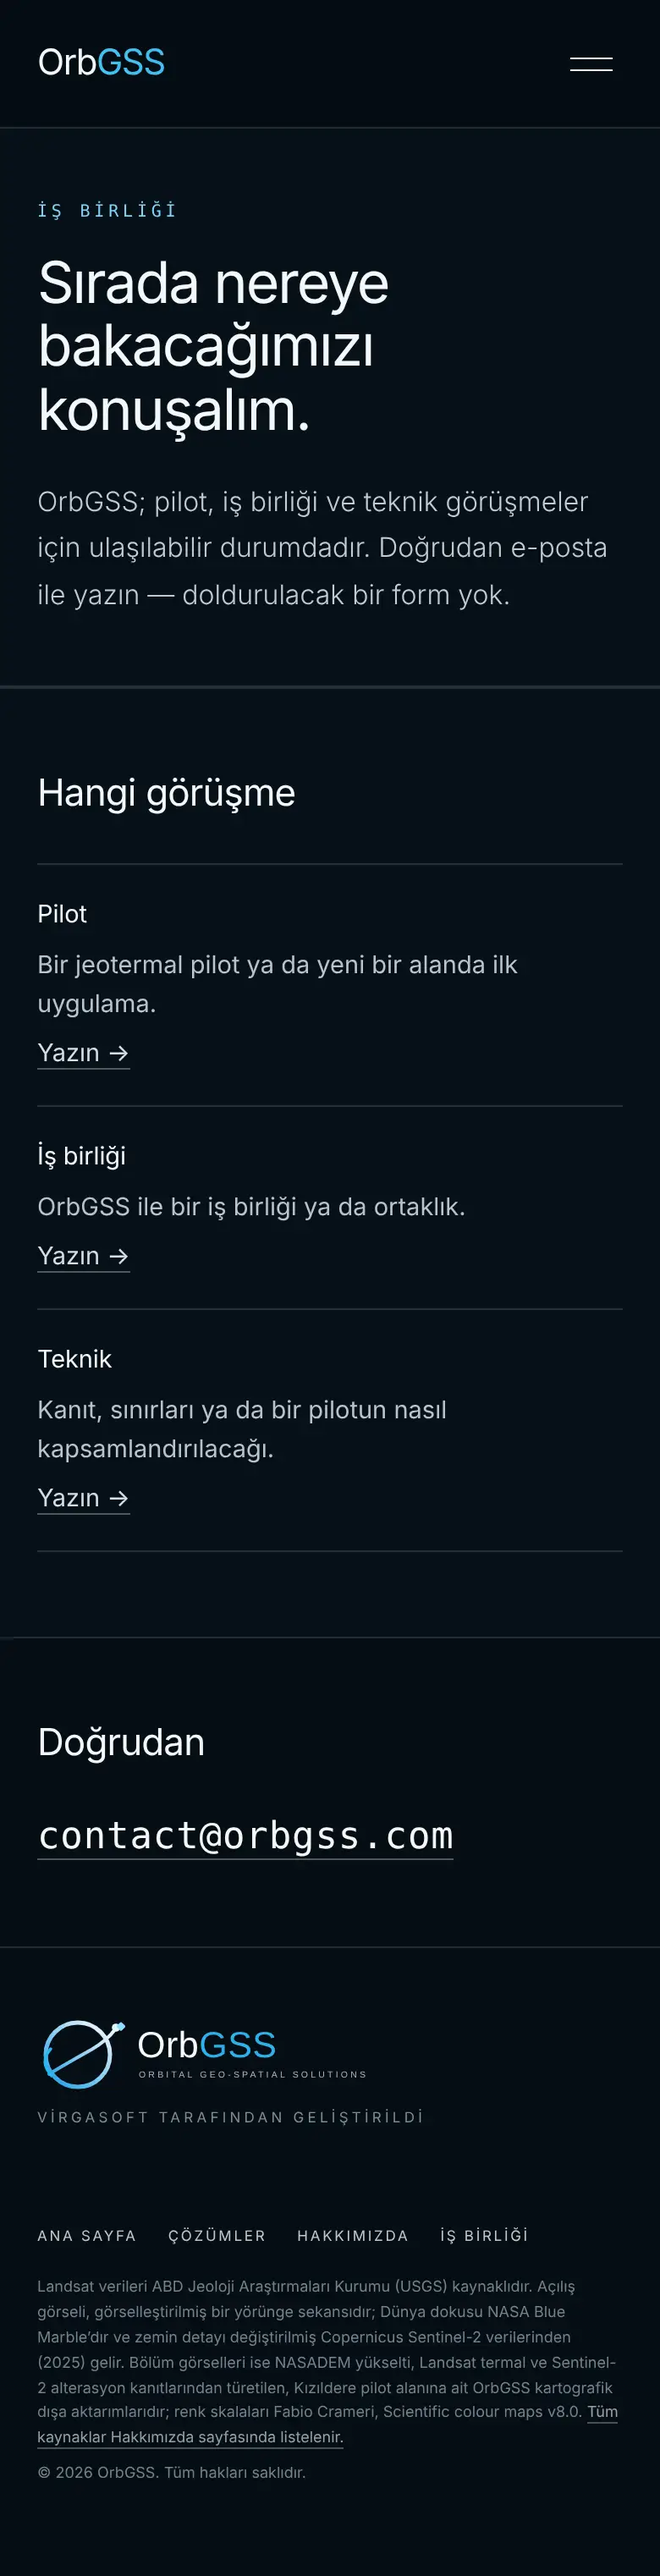
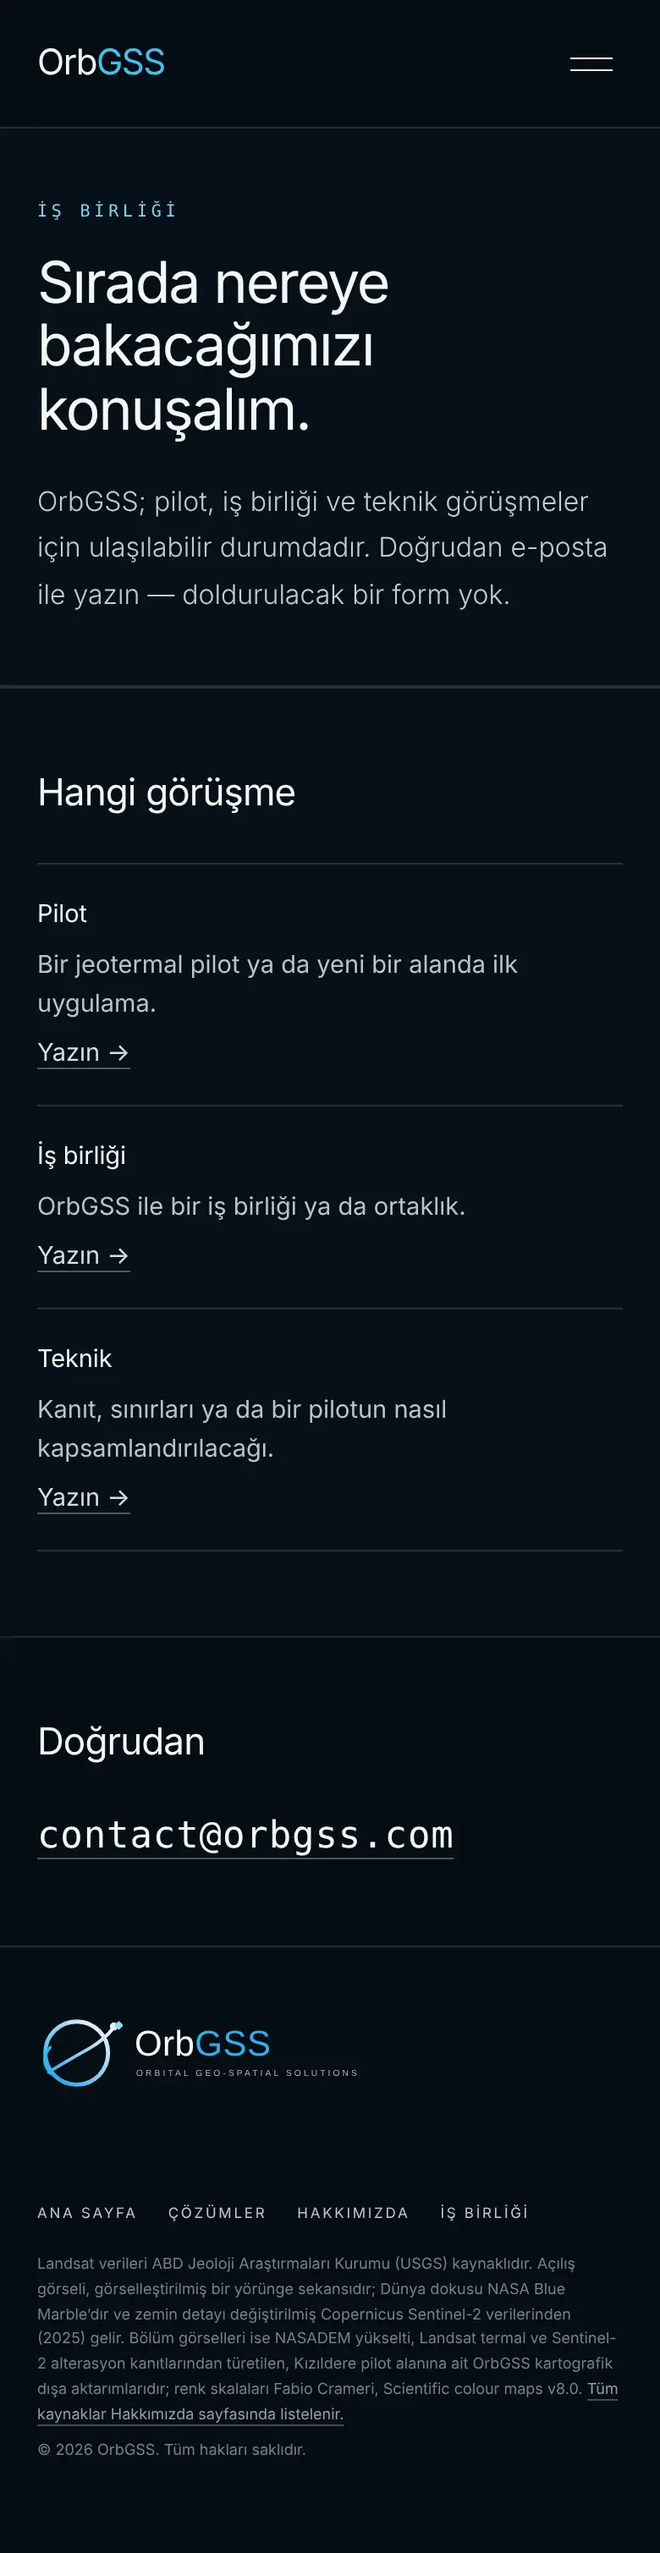
feat(mer-241): remove every VirgaSoft mention from the public site
CTO decision (2026-10-17): the brand is OrbGSS only; the site never names
VirgaSoft, and the planned legal name is not published either.

- Footer mark on every page and 404.html, the About page's parent line, the
  parent-company clause in the About introduction and the About meta / og
  descriptions are removed in English and Turkish (dictionary key
  footer.builtBy and the related CSS go too). /tr/ is regenerated.
- scripts/validate_site.py scans every deployed file for the former parent
  brand in any spelling (case, Turkish dotted I, spaces, hyphens, entities,
  raw bytes / UTF-16 metadata). negative_tests_mer241.py gains 7 cases (51);
  two older cases that used the removed element or sentence are re-anchored.
- CLAUDE.md, the M6 / vNext / product authorities (new M6 decision D6),
  STATUS, CHANGELOG and tasks/MER-241_EVIDENCE.md (section 8) record it.
  Historical internal records and the virga-soft Vercel team identifier in
  hostnames are not site content and are untouched.

Claude-Session: https://claude.ai/code/session_01CRCZCrLH5bTTxXSvzym49z

diff --git a/script.js b/script.js
@@ -94,7 +94,7 @@ const I18N = {
     'app.marine.title': 'Marine',
     'app.marine.status': 'Expansion direction',
     'company.title': 'OrbGSS — Orbital Geo-Spatial Solutions',
-    'company.copy': 'OrbGSS is a geospatial-intelligence platform built by VirgaSoft. It exists to make exploration and land decisions evidence-based, traceable and easier to prioritize.',
+    'company.copy': 'OrbGSS is a geospatial-intelligence platform. It exists to make exploration and land decisions evidence-based, traceable and easier to prioritize.',
     'contact.cta': 'Partner With Us',
     'scene.yellowstone.place': 'Yellowstone National Park, USA',
     'scene.yellowstone.coords': '44.4604° N, 110.8282° W',
@@ -105,7 +105,6 @@ const I18N = {
     'alt.yellowstone': 'Satellite view of the geothermal landscape around Yellowstone National Park',
     'alt.chuquicamata': 'Satellite view of the Chuquicamata mining district in northern Chile',
     'alt.ili': 'Satellite view of the Ili River Delta and Lake Balkhash in Kazakhstan',
-    'footer.builtBy': 'Built by VirgaSoft',
     'footer.attribution': 'Landsat data courtesy of the U.S. Geological Survey. The hero is a rendered orbital sequence whose Earth texture is NASA Blue Marble with ground detail from modified Copernicus Sentinel-2 data (2025). The story panels are OrbGSS cartographic exports of the Kızıldere pilot area, derived from NASADEM elevation, Landsat thermal and Sentinel-2 alteration evidence, with Scientific colour maps v8.0 by Fabio Crameri.',
     'footer.copyright': '© 2026 OrbGSS. All rights reserved.',
 
@@ -261,8 +260,8 @@ const I18N = {
     'geothermalPage.gap.copy': 'No public-safe fault or lithology layer is authorized for this pilot. The gap is shown, not filled, and it does not change the priority: structure and geology are optional support and score-invariant.',
     'geothermalPage.next': 'Discuss a pilot',
     'aboutPage.meta.title': 'About — OrbGSS',
-    'aboutPage.meta.description': 'OrbGSS — Orbital Geo-Spatial Solutions, built by VirgaSoft: the principles it publishes by and every data source it uses.',
-    'aboutPage.meta.ogDescription': 'OrbGSS — Orbital Geo-Spatial Solutions, built by VirgaSoft.',
+    'aboutPage.meta.description': 'OrbGSS — Orbital Geo-Spatial Solutions: the principles it publishes by and every data source it uses.',
+    'aboutPage.meta.ogDescription': 'OrbGSS — Orbital Geo-Spatial Solutions: the principles it publishes by and every data source it uses.',
     'aboutPage.kicker': 'About',
     'aboutPage.principles.title': 'How OrbGSS publishes',
     'aboutPage.col.principle': 'Principle',
@@ -395,7 +394,7 @@ const I18N = {
     'app.marine.title': 'Denizel',
     'app.marine.status': 'Genişleme yönü',
     'company.title': 'OrbGSS — Orbital Geo-Spatial Solutions',
-    'company.copy': 'OrbGSS, VirgaSoft tarafından geliştirilen bir coğrafi zekâ platformudur. Arama ve arazi kararlarını kanıta dayalı, izlenebilir ve önceliklendirilmesi kolay hâle getirmek için vardır.',
+    'company.copy': 'OrbGSS bir coğrafi zekâ platformudur. Arama ve arazi kararlarını kanıta dayalı, izlenebilir ve önceliklendirilmesi kolay hâle getirmek için vardır.',
     'contact.cta': 'İş Birliği Kurun',
     'scene.yellowstone.place': 'Yellowstone Ulusal Parkı, ABD',
     'scene.yellowstone.coords': '44.4604° K, 110.8282° B',
@@ -407,7 +406,6 @@ const I18N = {
     'alt.yellowstone': 'Yellowstone Ulusal Parkı çevresindeki jeotermal arazinin uydu görüntüsü',
     'alt.chuquicamata': 'Kuzey Şili Chuquicamata madencilik bölgesinin uydu görüntüsü',
     'alt.ili': 'Kazakistan İli Nehri Deltası ve Balkaş Gölü uydu görüntüsü',
-    'footer.builtBy': 'VirgaSoft tarafından geliştirildi',
     'footer.attribution': 'Landsat verileri ABD Jeoloji Araştırmaları Kurumu (USGS) kaynaklıdır. Açılış görseli, görselleştirilmiş bir yörünge sekansıdır; Dünya dokusu NASA Blue Marble’dır ve zemin detayı değiştirilmiş Copernicus Sentinel-2 verilerinden (2025) gelir. Bölüm görselleri ise NASADEM yükselti, Landsat termal ve Sentinel-2 alterasyon kanıtlarından türetilen, Kızıldere pilot alanına ait OrbGSS kartografik dışa aktarımlarıdır; renk skalaları Fabio Crameri, Scientific colour maps v8.0.',
     'footer.copyright': '© 2026 OrbGSS. Tüm hakları saklıdır.',
 
@@ -563,8 +561,8 @@ const I18N = {
     'geothermalPage.gap.copy': 'Bu pilot için kamuya açık kullanıma uygun bir fay veya litoloji katmanı yetkilendirilmemiştir. Boşluk doldurulmaz, gösterilir ve önceliği değiştirmez: yapı ve jeoloji isteğe bağlı destektir, skoru etkilemez.',
     'geothermalPage.next': 'Pilot görüşün',
     'aboutPage.meta.title': 'Hakkımızda — OrbGSS',
-    'aboutPage.meta.description': 'OrbGSS — Orbital Geo-Spatial Solutions, VirgaSoft tarafından geliştirildi: yayın ilkeleri ve kullandığı tüm veri kaynakları.',
-    'aboutPage.meta.ogDescription': 'OrbGSS — Orbital Geo-Spatial Solutions, VirgaSoft tarafından geliştirildi.',
+    'aboutPage.meta.description': 'OrbGSS — Orbital Geo-Spatial Solutions: yayın ilkeleri ve kullandığı tüm veri kaynakları.',
+    'aboutPage.meta.ogDescription': 'OrbGSS — Orbital Geo-Spatial Solutions: yayın ilkeleri ve kullandığı tüm veri kaynakları.',
     'aboutPage.kicker': 'Hakkımızda',
     'aboutPage.principles.title': 'OrbGSS nasıl yayımlar',
     'aboutPage.col.principle': 'İlke',

diff --git a/tr/hakkimizda/index.html b/tr/hakkimizda/index.html
@@ -5,7 +5,7 @@
   <meta charset="utf-8" />
   <meta name="viewport" content="width=device-width,initial-scale=1,viewport-fit=cover" />
   <title data-i18n="aboutPage.meta.title">Hakkımızda — OrbGSS</title>
-  <meta name="description" data-i18n-content="aboutPage.meta.description" content="OrbGSS — Orbital Geo-Spatial Solutions, VirgaSoft tarafından geliştirildi: yayın ilkeleri ve kullandığı tüm veri kaynakları." />
+  <meta name="description" data-i18n-content="aboutPage.meta.description" content="OrbGSS — Orbital Geo-Spatial Solutions: yayın ilkeleri ve kullandığı tüm veri kaynakları." />
   <meta name="theme-color" content="#061018" />
   <meta name="color-scheme" content="dark" />
   <meta name="robots" content="index,follow,max-image-preview:large" />
@@ -16,7 +16,7 @@
 
   <meta property="og:site_name" content="OrbGSS" />
   <meta property="og:title" data-i18n-content="aboutPage.meta.title" content="Hakkımızda — OrbGSS" />
-  <meta property="og:description" data-i18n-content="aboutPage.meta.ogDescription" content="OrbGSS — Orbital Geo-Spatial Solutions, VirgaSoft tarafından geliştirildi." />
+  <meta property="og:description" data-i18n-content="aboutPage.meta.ogDescription" content="OrbGSS — Orbital Geo-Spatial Solutions: yayın ilkeleri ve kullandığı tüm veri kaynakları." />
   <meta property="og:type" content="website" />
   <meta property="og:url" content="https://orbgss.com/tr/hakkimizda/" />
   <meta property="og:locale" content="tr_TR" />
@@ -71,8 +71,7 @@
       <div class="page-hero-inner">
         <p class="kicker mono" data-i18n="aboutPage.kicker">Hakkımızda</p>
         <h1 id="about-title" data-i18n="company.title">OrbGSS — Orbital Geo-Spatial Solutions</h1>
-        <p class="page-hero-copy" data-i18n="company.copy">OrbGSS, VirgaSoft tarafından geliştirilen bir coğrafi zekâ platformudur. Arama ve arazi kararlarını kanıta dayalı, izlenebilir ve önceliklendirilmesi kolay hâle getirmek için vardır.</p>
-        <p class="company-parent mono" data-i18n="footer.builtBy">VirgaSoft tarafından geliştirildi</p>
+        <p class="page-hero-copy" data-i18n="company.copy">OrbGSS bir coğrafi zekâ platformudur. Arama ve arazi kararlarını kanıta dayalı, izlenebilir ve önceliklendirilmesi kolay hâle getirmek için vardır.</p>
       </div>
     </section>
 
@@ -127,7 +126,6 @@
   <footer class="site-footer">
     <div class="footer-brand">
       <img src="/assets/logo.svg" alt="OrbGSS — Orbital Geo-Spatial Solutions" width="420" height="120" />
-      <span data-i18n="footer.builtBy">VirgaSoft tarafından geliştirildi</span>
     </div>
     <div class="footer-right">
       <nav aria-label="Alt bilgi gezinmesi" data-i18n-aria-label="nav.footer">

diff --git a/about/index.html b/about/index.html
@@ -4,7 +4,7 @@
   <meta charset="utf-8" />
   <meta name="viewport" content="width=device-width,initial-scale=1,viewport-fit=cover" />
   <title data-i18n="aboutPage.meta.title">About — OrbGSS</title>
-  <meta name="description" data-i18n-content="aboutPage.meta.description" content="OrbGSS — Orbital Geo-Spatial Solutions, built by VirgaSoft: the principles it publishes by and every data source it uses." />
+  <meta name="description" data-i18n-content="aboutPage.meta.description" content="OrbGSS — Orbital Geo-Spatial Solutions: the principles it publishes by and every data source it uses." />
   <meta name="theme-color" content="#061018" />
   <meta name="color-scheme" content="dark" />
   <meta name="robots" content="index,follow,max-image-preview:large" />
@@ -15,7 +15,7 @@
 
   <meta property="og:site_name" content="OrbGSS" />
   <meta property="og:title" data-i18n-content="aboutPage.meta.title" content="About — OrbGSS" />
-  <meta property="og:description" data-i18n-content="aboutPage.meta.ogDescription" content="OrbGSS — Orbital Geo-Spatial Solutions, built by VirgaSoft." />
+  <meta property="og:description" data-i18n-content="aboutPage.meta.ogDescription" content="OrbGSS — Orbital Geo-Spatial Solutions: the principles it publishes by and every data source it uses." />
   <meta property="og:type" content="website" />
   <meta property="og:url" content="https://orbgss.com/about/" />
   <meta property="og:locale" content="en_US" />
@@ -70,8 +70,7 @@
       <div class="page-hero-inner">
         <p class="kicker mono" data-i18n="aboutPage.kicker">About</p>
         <h1 id="about-title" data-i18n="company.title">OrbGSS — Orbital Geo-Spatial Solutions</h1>
-        <p class="page-hero-copy" data-i18n="company.copy">OrbGSS is a geospatial-intelligence platform built by VirgaSoft. It exists to make exploration and land decisions evidence-based, traceable and easier to prioritize.</p>
-        <p class="company-parent mono" data-i18n="footer.builtBy">Built by VirgaSoft</p>
+        <p class="page-hero-copy" data-i18n="company.copy">OrbGSS is a geospatial-intelligence platform. It exists to make exploration and land decisions evidence-based, traceable and easier to prioritize.</p>
       </div>
     </section>
 
@@ -126,7 +125,6 @@
   <footer class="site-footer">
     <div class="footer-brand">
       <img src="/assets/logo.svg" alt="OrbGSS — Orbital Geo-Spatial Solutions" width="420" height="120" />
-      <span data-i18n="footer.builtBy">Built by VirgaSoft</span>
     </div>
     <div class="footer-right">
       <nav aria-label="Footer navigation" data-i18n-aria-label="nav.footer">

diff --git a/styles.css b/styles.css
@@ -481,7 +481,6 @@ body.home{background:var(--orb-bg)}
 
 
 /* ---------- company mark (the About header) ---------- */
-.company-parent{margin:0;font-size:9.5px;letter-spacing:.22em;text-transform:uppercase;color:var(--dim)}
 
 /* ---------- contact: one centred Partner line (MER-240) ---------- */
 .sec-contact{padding-top:clamp(44px,5vw,72px);padding-bottom:clamp(52px,6vw,88px)}
@@ -494,7 +493,6 @@ body.home{background:var(--orb-bg)}
 .page-hero-inner{max-width:920px}
 .page-hero h1{margin:0 0 22px;font-size:clamp(34px,4.2vw,64px);font-weight:370;letter-spacing:-.03em;line-height:1.1;max-width:18ch}
 .page-hero-copy{margin:0;max-width:64ch;font-size:clamp(16px,1.2vw,19px);line-height:1.7;color:#c2cbd0;font-weight:350}
-.page-hero-copy+.company-parent{margin-top:22px}
 
 /* Single padded wrapper for every deep-page content block; children below carry no padding of
    their own so a page never has to reach for an inline style. */
@@ -568,7 +566,7 @@ body.home{background:var(--orb-bg)}
 .site-footer{min-height:180px;padding:34px var(--pad) 46px;display:flex;justify-content:space-between;align-items:flex-end;gap:60px;background:#050d13;border-top:1px solid var(--line)}
 /* The homepage story runs on one ground from Act 02 to the end, and the footer is the end of it. */
 body.home .site-footer{background:var(--orb-deep);border-top:1px solid var(--line-soft)}
-.footer-brand img{width:230px;height:auto;margin-left:-5px}.footer-brand span{display:block;margin-top:2px;font-size:8.5px;text-transform:uppercase;letter-spacing:.25em;color:#7f8d97}
+.footer-brand img{display:block;width:230px;height:auto;margin-left:-5px}
 /* The footer links sit at 8.5px, so their bare line box was only 11px tall — well under the 24px
    WCAG 2.5.8 activation target. Vertical padding gives them a real target without enlarging the
    type or loosening the footer's density; the negative block margin keeps the original spacing. */

diff --git a/tr/cozumler/index.html b/tr/cozumler/index.html
@@ -172,7 +172,6 @@
   <footer class="site-footer">
     <div class="footer-brand">
       <img src="/assets/logo.svg" alt="OrbGSS — Orbital Geo-Spatial Solutions" width="420" height="120" />
-      <span data-i18n="footer.builtBy">VirgaSoft tarafından geliştirildi</span>
     </div>
     <div class="footer-right">
       <nav aria-label="Alt bilgi gezinmesi" data-i18n-aria-label="nav.footer">

diff --git a/tr/cozumler/jeotermal/index.html b/tr/cozumler/jeotermal/index.html
@@ -168,7 +168,6 @@
   <footer class="site-footer">
     <div class="footer-brand">
       <img src="/assets/logo.svg" alt="OrbGSS — Orbital Geo-Spatial Solutions" width="420" height="120" />
-      <span data-i18n="footer.builtBy">VirgaSoft tarafından geliştirildi</span>
     </div>
     <div class="footer-right">
       <nav aria-label="Alt bilgi gezinmesi" data-i18n-aria-label="nav.footer">

diff --git a/tr/index.html b/tr/index.html
@@ -783,7 +783,6 @@
   <footer class="site-footer">
     <div class="footer-brand">
       <img src="/assets/logo.svg" alt="OrbGSS — Orbital Geo-Spatial Solutions" width="420" height="120" />
-      <span data-i18n="footer.builtBy">VirgaSoft tarafından geliştirildi</span>
     </div>
     <div class="footer-right">
       <nav aria-label="Alt bilgi gezinmesi" data-i18n-aria-label="nav.footer">

diff --git a/tr/is-birligi/index.html b/tr/is-birligi/index.html
@@ -106,7 +106,6 @@
   <footer class="site-footer">
     <div class="footer-brand">
       <img src="/assets/logo.svg" alt="OrbGSS — Orbital Geo-Spatial Solutions" width="420" height="120" />
-      <span data-i18n="footer.builtBy">VirgaSoft tarafından geliştirildi</span>
     </div>
     <div class="footer-right">
       <nav aria-label="Alt bilgi gezinmesi" data-i18n-aria-label="nav.footer">

diff --git a/partner/index.html b/partner/index.html
@@ -105,7 +105,6 @@
   <footer class="site-footer">
     <div class="footer-brand">
       <img src="/assets/logo.svg" alt="OrbGSS — Orbital Geo-Spatial Solutions" width="420" height="120" />
-      <span data-i18n="footer.builtBy">Built by VirgaSoft</span>
     </div>
     <div class="footer-right">
       <nav aria-label="Footer navigation" data-i18n-aria-label="nav.footer">

diff --git a/solutions/geothermal/index.html b/solutions/geothermal/index.html
@@ -167,7 +167,6 @@
   <footer class="site-footer">
     <div class="footer-brand">
       <img src="/assets/logo.svg" alt="OrbGSS — Orbital Geo-Spatial Solutions" width="420" height="120" />
-      <span data-i18n="footer.builtBy">Built by VirgaSoft</span>
     </div>
     <div class="footer-right">
       <nav aria-label="Footer navigation" data-i18n-aria-label="nav.footer">

diff --git a/solutions/index.html b/solutions/index.html
@@ -171,7 +171,6 @@
   <footer class="site-footer">
     <div class="footer-brand">
       <img src="/assets/logo.svg" alt="OrbGSS — Orbital Geo-Spatial Solutions" width="420" height="120" />
-      <span data-i18n="footer.builtBy">Built by VirgaSoft</span>
     </div>
     <div class="footer-right">
       <nav aria-label="Footer navigation" data-i18n-aria-label="nav.footer">

diff --git a/index.html b/index.html
@@ -782,7 +782,6 @@
   <footer class="site-footer">
     <div class="footer-brand">
       <img src="assets/logo.svg" alt="OrbGSS — Orbital Geo-Spatial Solutions" width="420" height="120" />
-      <span data-i18n="footer.builtBy">Built by VirgaSoft</span>
     </div>
     <div class="footer-right">
       <nav aria-label="Footer navigation" data-i18n-aria-label="nav.footer">
